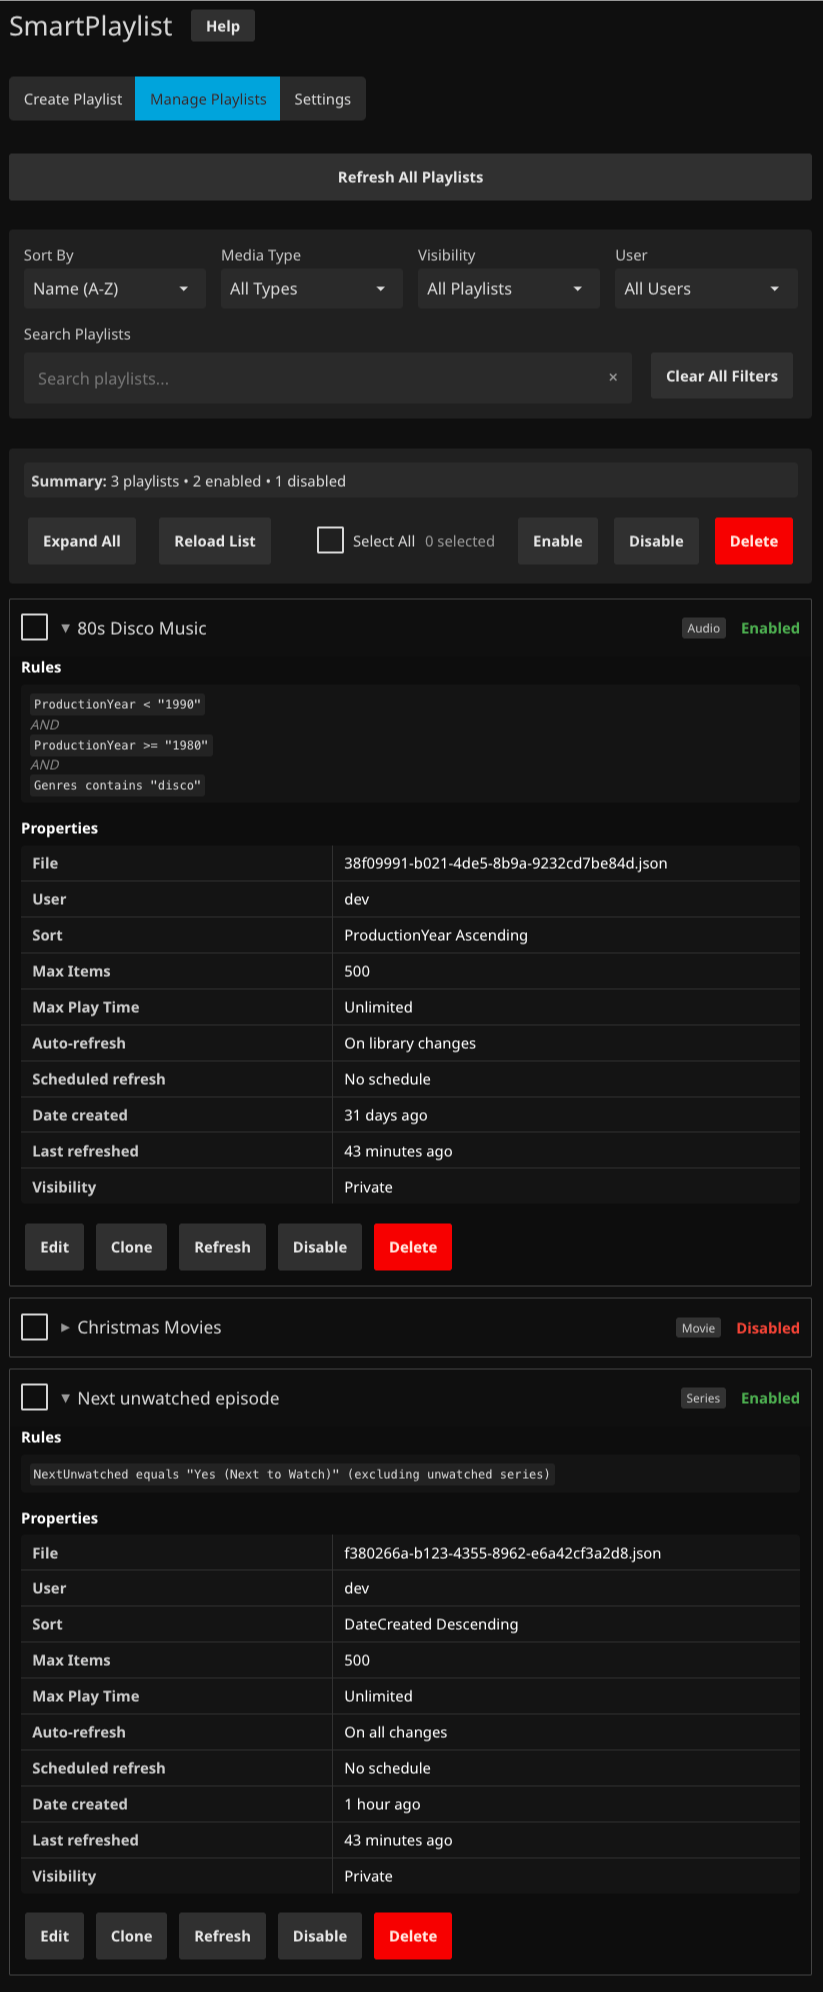
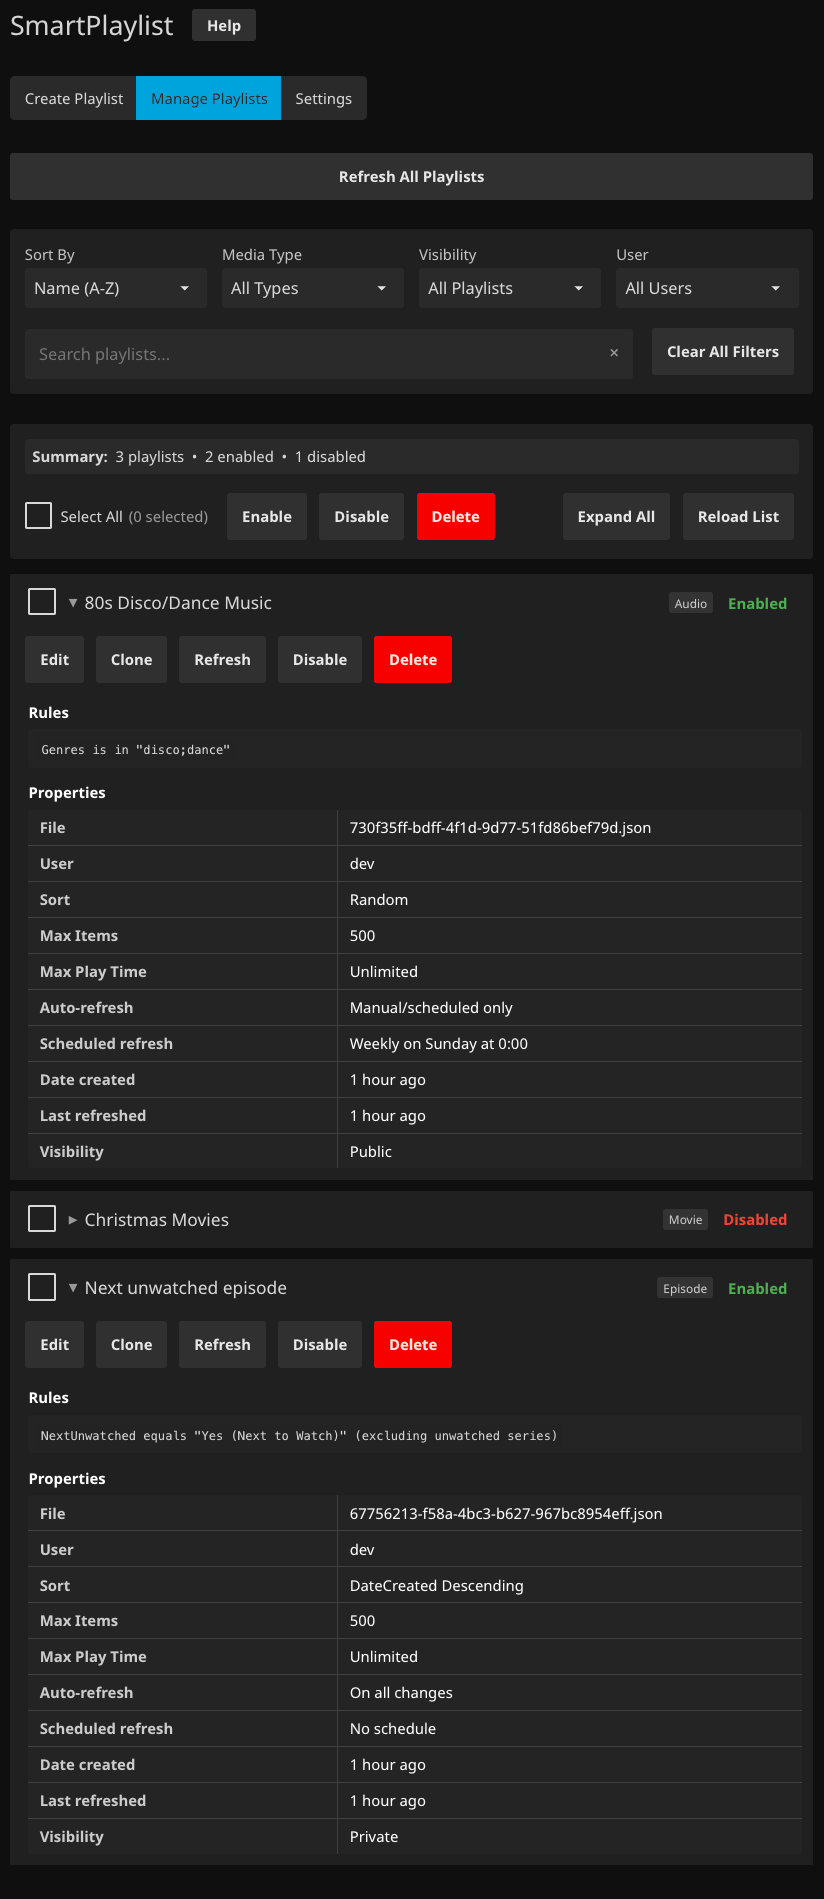
UI improvements (#116)
- Introduced a helper function to generate consistent summary text for
playlists, enhancing clarity in filtered and unfiltered views.
- Updated the configuration page layout for better alignment and
spacing, improving overall user experience.
- Adjusted styles for playlist cards and action buttons to enhance
visual consistency and usability.
- Fixed minor issues with selected count display and scroll behavior
during expand/collapse actions.

## Summary by Sourcery

Introduce a helper for summary text, revamp playlist card styling and
layout, and address minor UI bugs in count display, scrolling, and
confirmation prompts

New Features:
- Add generateSummaryText helper for consistent playlist summary display
- Render playlist media types as individual labels

Bug Fixes:
- Fix selected count formatting to include parentheses
- Preserve scroll position when expanding or collapsing all playlist
cards
- Correct pluralization in the delete confirmation prompt

Enhancements:
- Adjust bulk actions layout with tighter spacing and left-aligned
controls
- Restyle playlist cards with a dark background, refined spacing, and
relocated action buttons
- Remove redundant search field label for a cleaner UI

diff --git a/Jellyfin.Plugin.SmartPlaylist/Configuration/config.js b/Jellyfin.Plugin.SmartPlaylist/Configuration/config.js
@@ -156,6 +156,29 @@
         return options;
     }
     
+    // Helper function to generate summary text with consistent styling
+    function generateSummaryText(totalPlaylists, enabledPlaylists, disabledPlaylists, filteredCount = null, searchTerm = null) {
+        const bulletStyle = 'margin: 0 0.25em;';
+        const bullet = '<span style="' + bulletStyle + '">•</span>';
+        
+        let summaryText = '<strong>Summary:&nbsp;</strong> ';
+        
+        if (filteredCount !== null && filteredCount !== totalPlaylists) {
+            // Filtered results
+            summaryText += filteredCount + ' of ' + totalPlaylists + ' playlist' + (totalPlaylists !== 1 ? 's' : '');
+            if (searchTerm) {
+                summaryText += ' matching "' + escapeHtml(searchTerm) + '"';
+            }
+        } else {
+            // All playlists
+            summaryText += totalPlaylists + ' playlist' + (totalPlaylists !== 1 ? 's' : '');
+        }
+        
+        summaryText += ' ' + bullet + ' ' + enabledPlaylists + ' enabled ' + bullet + ' ' + disabledPlaylists + ' disabled';
+        
+        return summaryText;
+    }
+
     // Helper function to generate bulk actions HTML
     function generateBulkActionsHTML(summaryText) {
         let html = '';
@@ -168,10 +191,10 @@
         html += '</div>';
         
         // Layout: Left side (Select All, bulk actions) | Right side (Expand All, Reload List)
-        html += '<div style="display: flex; align-items: center; justify-content: space-between; flex-wrap: wrap; gap: 1em;">';
+        html += '<div style="display: flex; align-items: center; justify-content: flex-start; flex-wrap: wrap; gap: 0.5em;">';
         
         // Left side: Select All checkbox and bulk action buttons
-        html += '<div style="display: flex; align-items: center; gap: 0.75em; flex-wrap: wrap;">';
+        html += '<div style="display: flex; align-items: center; gap: 0.25em; flex-wrap: wrap;">';
         
         // 1. Select All checkbox
         html += '<label class="emby-checkbox-label" style="width: auto; min-width: auto;">';
@@ -184,7 +207,7 @@
         html += '</label>';
         
         // Selected count display
-        html += '<span id="selectedCountDisplay" class="fieldDescription" style="color: #999;">0 selected</span>';
+        html += '<span id="selectedCountDisplay" class="fieldDescription" style="color: #999; margin-right: 0.75em; font-style: italic;">(0 selected)</span>';
         
         // 2. Enable button
         html += '<button type="button" id="bulkEnableBtn" class="emby-button raised" disabled>Enable</button>';
@@ -198,7 +221,7 @@
         html += '</div>'; // End left side
         
         // Right side: View control buttons
-        html += '<div style="display: flex; align-items: center; gap: 0.75em; flex-wrap: wrap;">';
+        html += '<div style="display: flex; align-items: center; gap: 0.25em; flex-wrap: wrap; margin-left: auto;">';
         
         // 5. Expand All button
         html += '<button type="button" id="expandAllBtn" class="emby-button raised">Expand All</button>';
@@ -2574,8 +2597,7 @@
                 let html = '';
                 
                 // Add bulk actions container after summary
-                const summaryText = '<strong>Summary:</strong> ' + totalPlaylists + ' playlist' + (totalPlaylists !== 1 ? 's' : '') + 
-                        ' • ' + enabledPlaylists + ' enabled • ' + disabledPlaylists + ' disabled';
+                const summaryText = generateSummaryText(totalPlaylists, enabledPlaylists, disabledPlaylists, filteredCount, null);
                 html += generateBulkActionsHTML(summaryText);
                 
                 // Process filtered playlists sequentially to resolve usernames
@@ -2901,8 +2923,9 @@
         // Use the resolved username passed as parameter
         const userName = resolvedUserName || 'Unknown User';
         const playlistId = playlist.Id || 'NO_ID';
-        const mediaTypes = playlist.MediaTypes && playlist.MediaTypes.length > 0 ? 
-            playlist.MediaTypes.join(', ') : 'All Types';
+        // Create individual media type labels
+        const mediaTypesArray = playlist.MediaTypes && playlist.MediaTypes.length > 0 ? 
+            playlist.MediaTypes : ['All Types'];
         
         const { maxItemsDisplay, maxPlayTimeDisplay } = formatPlaylistDisplayValues(playlist);
         
@@ -2910,7 +2933,6 @@
         const eName = escapeHtml(playlist.Name || '');
         const eFileName = escapeHtml(playlist.FileName || '');
         const eUserName = escapeHtml(userName || '');
-        const eMediaTypes = escapeHtml(mediaTypes);
         const eSortName = escapeHtml(sortName);
         const eMaxItems = escapeHtml(maxItemsDisplay);
         const eMaxPlayTime = escapeHtml(maxPlayTimeDisplay);
@@ -2921,11 +2943,11 @@
         const ePlaylistId = escapeHtml(playlistId);
         
         // Generate collapsible playlist card with improved styling
-        return '<div class="inputContainer playlist-card" data-playlist-id="' + ePlaylistId + '" style="border: 1px solid #444; border-radius: 2px; margin-bottom: 0.75em;">' +
+        return '<div class="inputContainer playlist-card" data-playlist-id="' + ePlaylistId + '" style="border: none; border-radius: 2px; margin-bottom: 0.75em; background: #202020;">' +
             // Compact header (always visible)
             '<div class="playlist-header" style="padding: 0.75em; cursor: pointer; display: flex; align-items: center; justify-content: space-between;">' +
-                '<div class="playlist-header-left" style="display: flex; align-items: center; flex: 1;">' +
-                    '<label class="emby-checkbox-label" style="width: auto; min-width: auto; margin-right: 0.3em;">' +
+                '<div class="playlist-header-left" style="display: flex; align-items: center; flex: 1; min-width: 0;">' +
+                    '<label class="emby-checkbox-label" style="width: auto; min-width: auto; margin-right: 0.3em; margin-left: 0.5em; flex-shrink: 0;">' +
                         '<input type="checkbox" is="emby-checkbox" data-embycheckbox="true" class="emby-checkbox playlist-checkbox" data-playlist-id="' + ePlaylistId + '">' +
                         '<span class="checkboxLabel" style="display: none;"></span>' +
                         '<span class="checkboxOutline">' +
@@ -2933,25 +2955,39 @@
                             '<span class="material-icons checkboxIcon checkboxIcon-unchecked" aria-hidden="true"></span>' +
                         '</span>' +
                     '</label>' +
-                    '<span class="playlist-expand-icon" style="margin-right: 0.5em; font-family: monospace; font-size: 1.2em; color: #999;">▶</span>' +
-                    '<h3 style="margin: 0; flex: 1;">' + eName + '</h3>' +
-                    '<span class="playlist-media-types" style="margin-left: 0.5em; padding: 0.2em 0.5em; background: #333; border-radius: 3px; font-size: 0.8em; color: #ccc;">' + eMediaTypes + '</span>' +
+                    '<span class="playlist-expand-icon" style="margin-right: 0.5em; font-family: monospace; font-size: 1.2em; color: #999; flex-shrink: 0;">▶</span>' +
+                    '<h3 style="margin: 0; flex: 1.5; min-width: 0; word-wrap: break-word; padding-right: 0.5em;">' + eName + '</h3>' +
+                    '<div class="playlist-media-types-container" style="display: flex; flex-wrap: wrap; gap: 0.25em; flex-shrink: 0; max-width: 160px; justify-content: flex-end;">' +
+                        mediaTypesArray.map(type => '<span class="playlist-media-type-label" style="padding: 0.2em 0.5em; background: #333; border-radius: 3px; font-size: 0.8em; color: #ccc; white-space: nowrap;">' + escapeHtml(type) + '</span>').join('') +
+                    '</div>' +
                 '</div>' +
-                '<div class="playlist-header-right" style="display: flex; align-items: center; margin-left: 1em;">' +
+                '<div class="playlist-header-right" style="display: flex; align-items: center; margin-left: 1em; margin-right: 1em;">' +
                     '<span class="playlist-status" style="color: ' + enabledStatusColor + '; font-weight: bold;">' + enabledStatus + '</span>' +
                 '</div>' +
             '</div>' +
             
             // Detailed content (initially hidden)
-            '<div class="playlist-details" style="display: none; padding: 0 0.75em 0.75em 0.75em; background: rgba(0,0,0,0.1);">' +
-                // Rules section at the top
-                '<div class="rules-section" style="margin-bottom: 1em;">' +
+            '<div class="playlist-details" style="display: none; padding: 0 0.75em 0.75em 0.75em; background: #202020;">' +
+                // Action buttons (moved to top, right after playlist name)
+                '<div class="playlist-actions" style="margin-bottom: 0.5em; padding-bottom: 0.5em;">' +
+                    '<button type="button" is="emby-button" class="emby-button raised edit-playlist-btn" data-playlist-id="' + ePlaylistId + '" style="margin-right: 0.5em;">Edit</button>' +
+                    '<button type="button" is="emby-button" class="emby-button raised clone-playlist-btn" data-playlist-id="' + ePlaylistId + '" data-playlist-name="' + eName + '" style="margin-right: 0.5em;">Clone</button>' +
+                    '<button type="button" is="emby-button" class="emby-button raised refresh-playlist-btn" data-playlist-id="' + ePlaylistId + '" data-playlist-name="' + eName + '" style="margin-right: 0.5em;">Refresh</button>' +
+                    (isEnabled ? 
+                        '<button type="button" is="emby-button" class="emby-button raised disable-playlist-btn" data-playlist-id="' + ePlaylistId + '" data-playlist-name="' + eName + '" style="margin-right: 0.5em;">Disable</button>' :
+                        '<button type="button" is="emby-button" class="emby-button raised enable-playlist-btn" data-playlist-id="' + ePlaylistId + '" data-playlist-name="' + eName + '" style="margin-right: 0.5em;">Enable</button>'
+                    ) +
+                    '<button type="button" is="emby-button" class="emby-button raised button-delete delete-playlist-btn" data-playlist-id="' + ePlaylistId + '" data-playlist-name="' + eName + '">Delete</button>' +
+                '</div>' +
+                
+                // Rules section
+                '<div class="rules-section" style="margin-bottom: 1em; margin-left: 0.5em;">' +
                     '<h4 style="margin: 0 0 0.5em 0; color: #fff; font-size: 1em;">Rules</h4>' +
                         rulesHtml +
                 '</div>' +
                 
                 // Properties table
-                '<div class="properties-section">' +
+                '<div class="properties-section" style="margin-left: 0.5em;">' +
                     '<h4 style="margin: 0 0 0.5em 0; color: #fff; font-size: 1em;">Properties</h4>' +
                     '<table style="width: 100%; border-collapse: collapse; background: rgba(255,255,255,0.02); border-radius: 4px; overflow: hidden;">' +
                         '<tr style="border-bottom: 1px solid rgba(255,255,255,0.1);">' +
@@ -2996,18 +3032,6 @@
                         '</tr>' +
                     '</table>' +
                 '</div>' +
-                
-                // Action buttons (only shown when expanded, bigger styling, no borders)
-                '<div class="playlist-actions" style="margin-top: 1em;">' +
-                    '<button type="button" is="emby-button" class="emby-button raised edit-playlist-btn" data-playlist-id="' + ePlaylistId + '" style="margin-right: 0.5em;">Edit</button>' +
-                    '<button type="button" is="emby-button" class="emby-button raised clone-playlist-btn" data-playlist-id="' + ePlaylistId + '" data-playlist-name="' + eName + '" style="margin-right: 0.5em;">Clone</button>' +
-                    '<button type="button" is="emby-button" class="emby-button raised refresh-playlist-btn" data-playlist-id="' + ePlaylistId + '" data-playlist-name="' + eName + '" style="margin-right: 0.5em;">Refresh</button>' +
-                    (isEnabled ? 
-                        '<button type="button" is="emby-button" class="emby-button raised disable-playlist-btn" data-playlist-id="' + ePlaylistId + '" data-playlist-name="' + eName + '" style="margin-right: 0.5em;">Disable</button>' :
-                        '<button type="button" is="emby-button" class="emby-button raised enable-playlist-btn" data-playlist-id="' + ePlaylistId + '" data-playlist-name="' + eName + '" style="margin-right: 0.5em;">Enable</button>'
-                    ) +
-                    '<button type="button" is="emby-button" class="emby-button raised button-delete delete-playlist-btn" data-playlist-id="' + ePlaylistId + '" data-playlist-name="' + eName + '">Delete</button>' +
-                '</div>' +
             '</div>' +
         '</div>';
     }
@@ -3035,7 +3059,7 @@
         // Update count display
         const countDisplay = page.querySelector('#selectedCountDisplay');
         if (countDisplay) {
-            countDisplay.textContent = selectedCount + ' selected';
+            countDisplay.textContent ='(' + selectedCount + ' selected)';
         }
         
         // Update button states
@@ -3312,7 +3336,8 @@
             ? playlistNames.slice(0, 5).join('\n') + `\n... and ${playlistNames.length - 5} more`
             : playlistNames.join('\n');
         
-        const confirmText = `Are you sure you want to delete the following playlist(s)?\n\n${playlistList}\n\nThis action cannot be undone.`;
+        const isPlural = playlistNames.length !== 1;
+        const confirmText = `Are you sure you want to delete the following ${isPlural ? 'playlists' : 'playlist'}?\n\n${playlistList}\n\nThis action cannot be undone.`;
         
         showDeleteModal(page, confirmText, () => {
             performBulkDelete(page, playlistIds);
@@ -3412,6 +3437,9 @@
         // Base action on current button text, not on current state
         const shouldExpand = expandAllBtn.textContent.trim() === 'Expand All';
         
+        // Preserve scroll position when expanding to prevent unwanted scrolling
+        const currentScrollTop = window.pageYOffset || document.documentElement.scrollTop;
+        
         if (shouldExpand) {
             // Expand all
             playlistCards.forEach(card => {
@@ -3424,6 +3452,11 @@
                 card.setAttribute('data-expanded', 'true');
             });
             expandAllBtn.textContent = 'Collapse All';
+            
+            // Restore scroll position after DOM changes to prevent unwanted scrolling
+            requestAnimationFrame(() => {
+                window.scrollTo(0, currentScrollTop);
+            });
         } else {
             // Collapse all
             playlistCards.forEach(card => {
@@ -3806,16 +3839,7 @@
         
         // Add bulk actions container after summary
         let summaryText;
-        if (!searchTerm && filteredCount === totalPlaylists) {
-            // No search term and showing all playlists - use simple format
-            summaryText = '<strong>Summary:</strong> ' + totalPlaylists + ' playlist' + (totalPlaylists !== 1 ? 's' : '') + 
-                    ' • ' + enabledPlaylists + ' enabled • ' + disabledPlaylists + ' disabled';
-        } else {
-            // Search term or filtered results - use filtered format
-            summaryText = '<strong>Summary:</strong> ' + filteredCount + ' of ' + totalPlaylists + ' playlist' + (totalPlaylists !== 1 ? 's' : '') + 
-                    (searchTerm ? ' matching "' + escapeHtml(searchTerm) + '"' : '') +
-                    ' • ' + enabledPlaylists + ' enabled • ' + disabledPlaylists + ' disabled';
-        }
+        summaryText = generateSummaryText(totalPlaylists, enabledPlaylists, disabledPlaylists, filteredCount, searchTerm);
         html += generateBulkActionsHTML(summaryText);
         
         // Process filtered playlists using the helper function
@@ -4449,7 +4473,13 @@
             if (expression.UserId) {
                 const userSelect = ruleRow.querySelector('.rule-user-select');
                 if (userSelect) {
-                    userSelect.value = expression.UserId;
+                    // Ensure options are loaded before setting the value
+                    loadUsersForRule(userSelect, true).then(() => {
+                        userSelect.value = expression.UserId;
+                    }).catch(() => {
+                        // Fallback: set value anyway in case of error
+                        userSelect.value = expression.UserId;
+                    });
                 }
             }
         } catch (error) {

diff --git a/Jellyfin.Plugin.SmartPlaylist/Configuration/config.html b/Jellyfin.Plugin.SmartPlaylist/Configuration/config.html
@@ -444,7 +444,6 @@
                                 
                                 <!-- Search field below the select fields -->
                                 <div style="margin-top: 1em;">
-                                    <label class="inputLabel" for="playlistSearchInput">Search Playlists</label>
                                     <div style="display: flex; gap: 1em; align-items: end;">
                                         <div class="search-inputContainer" style="position: relative; display: flex; align-items: center; flex: 1;">
                                             <input type="search" id="playlistSearchInput" class="emby-input" autocomplete="off" inputmode="search" placeholder="Search playlists..." style="padding: 0.75em 2.5em 0.75em 0.75em; width: 100%; box-sizing: border-box; background-color: #2A2A2A;">
